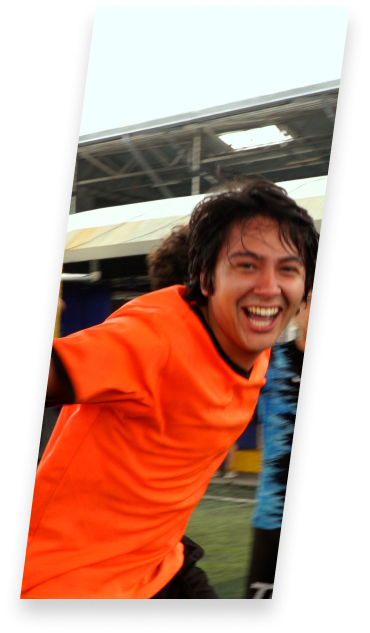
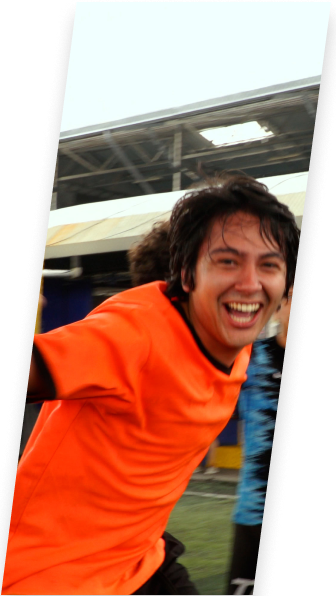
Reformat adrenaline image

diff --git a/src/app/home/home.page.scss b/src/app/home/home.page.scss
@@ -127,16 +127,12 @@ ion-segment-button {
 
 .first-img{
   position: absolute;
-  z-index: 1;
-  img{
-    margin-top: 0;
-  }
+  margin-top: 4%;
 }
 
 .second-img{
   position: absolute;
   margin-left: 35%;
-  z-index: 2;
 }
 
 .heavy-font{
